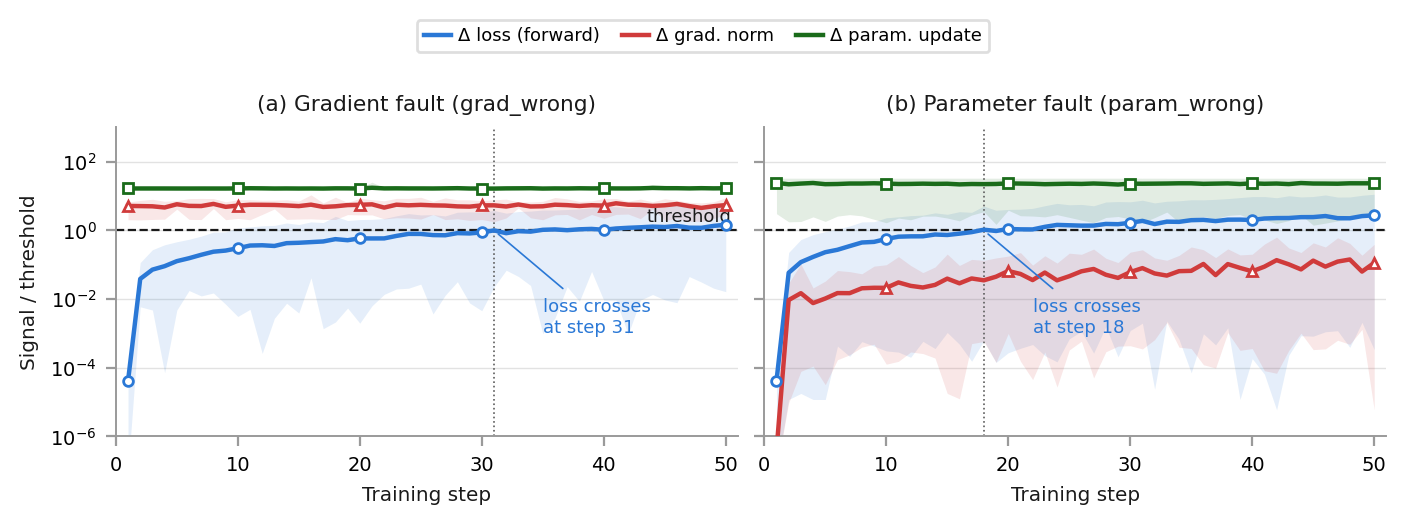
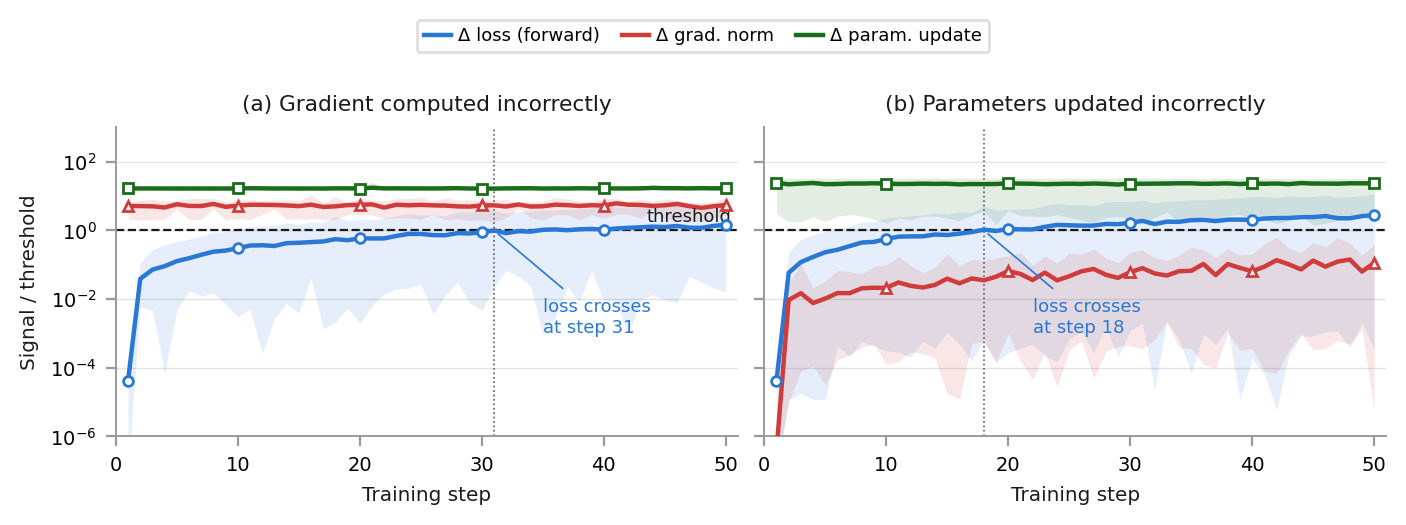
Make gradient-drift panel titles reader-facing for the intro
Replace "(a) Gradient fault (grad_wrong)" / "(b) Parameter fault
(param_wrong)" with plain-language titles. This figure is meant for the
introduction, before the fault taxonomy is defined, so the internal
fault-injection names read as unexplained jargon there. The internal
names stay in the script's docstring and caption for reproducibility.

Claude-Session: https://claude.ai/code/session_01PWLs7WAd4FDB7TaNmookBz

Changed region(s): [[0.6117, 0.1829, 0.9175, 0.2133], [0.1529, 0.1829, 0.4282, 0.2133]]

diff --git a/figures/make_gradient_drift.py b/figures/make_gradient_drift.py
@@ -1,7 +1,13 @@
 #!/usr/bin/env python3
 """Gradient drift under free-running coupling from Experiment C.
 
-Two panels show per-step divergence for grad_wrong and param_wrong faults.
+Two panels show per-step divergence for the grad_wrong and param_wrong
+faults (internal fault-injection names, kept here and in the caption for
+reproducibility). Panel titles use plain-language descriptions instead of
+those names -- this figure is meant for the introduction, before the
+fault taxonomy has been defined, so a reader must be able to tell the two
+panels apart without having read the methodology section.
+
 Under free-running coupling, errors accumulate across steps, revealing how
 long each metric takes to cross its detection threshold.
 
@@ -40,8 +46,8 @@ METRICS = [
 ]
 
 PANELS = [
-    ("grad_wrong",  "(a) Gradient fault (grad_wrong)"),
-    ("param_wrong", "(b) Parameter fault (param_wrong)"),
+    ("grad_wrong",  "(a) Gradient computed incorrectly"),
+    ("param_wrong", "(b) Parameters updated incorrectly"),
 ]
 
 df = pd.read_csv(CSV)
